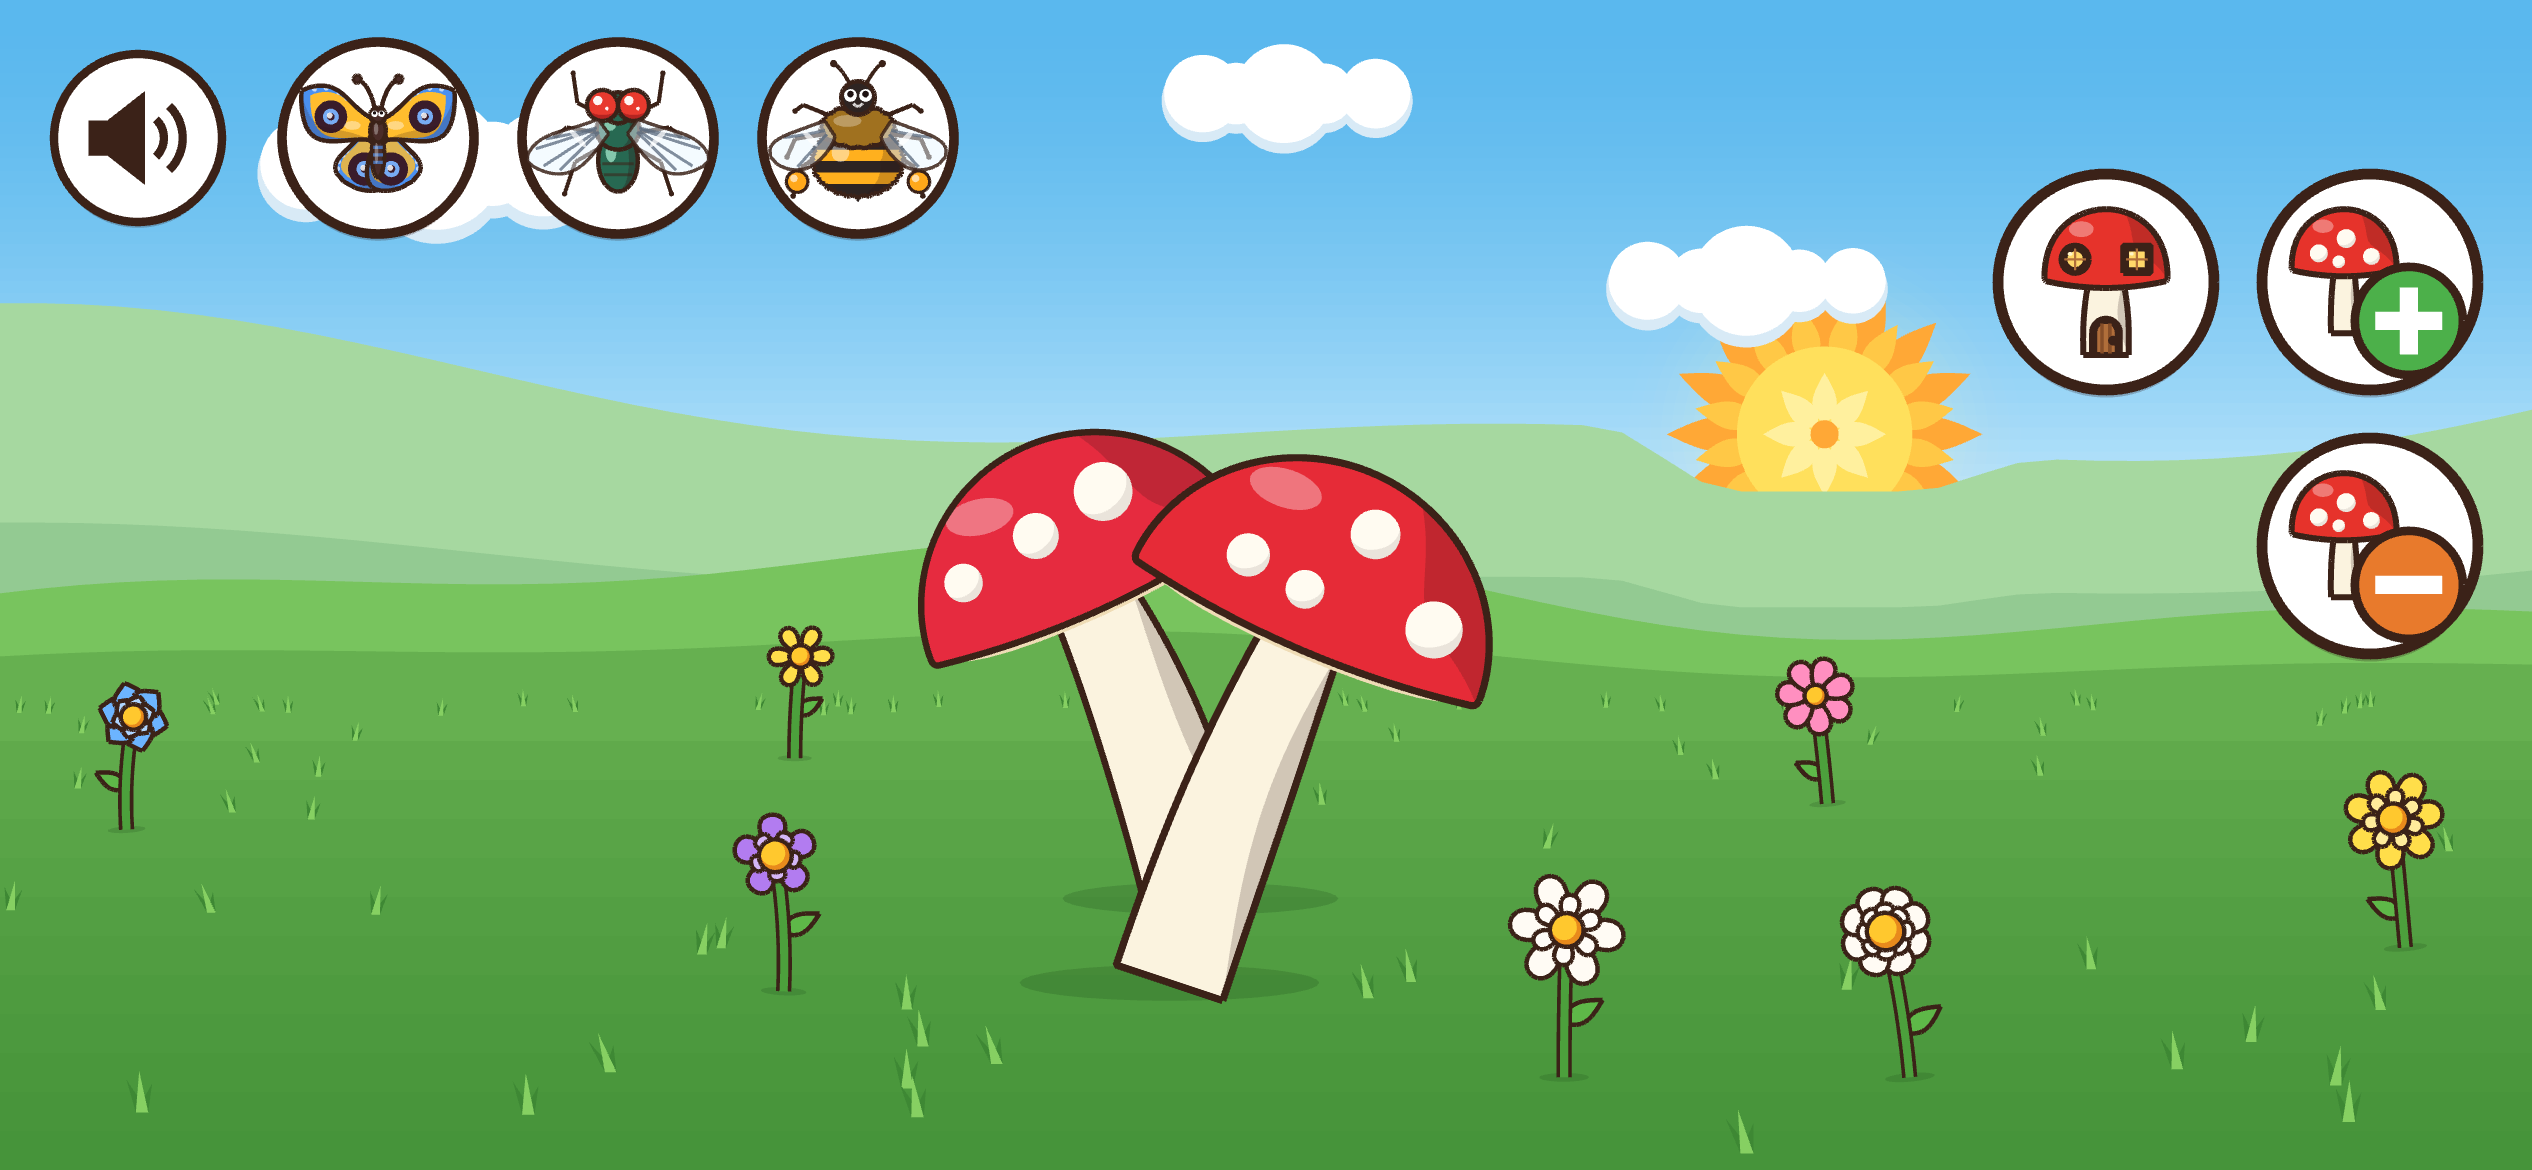
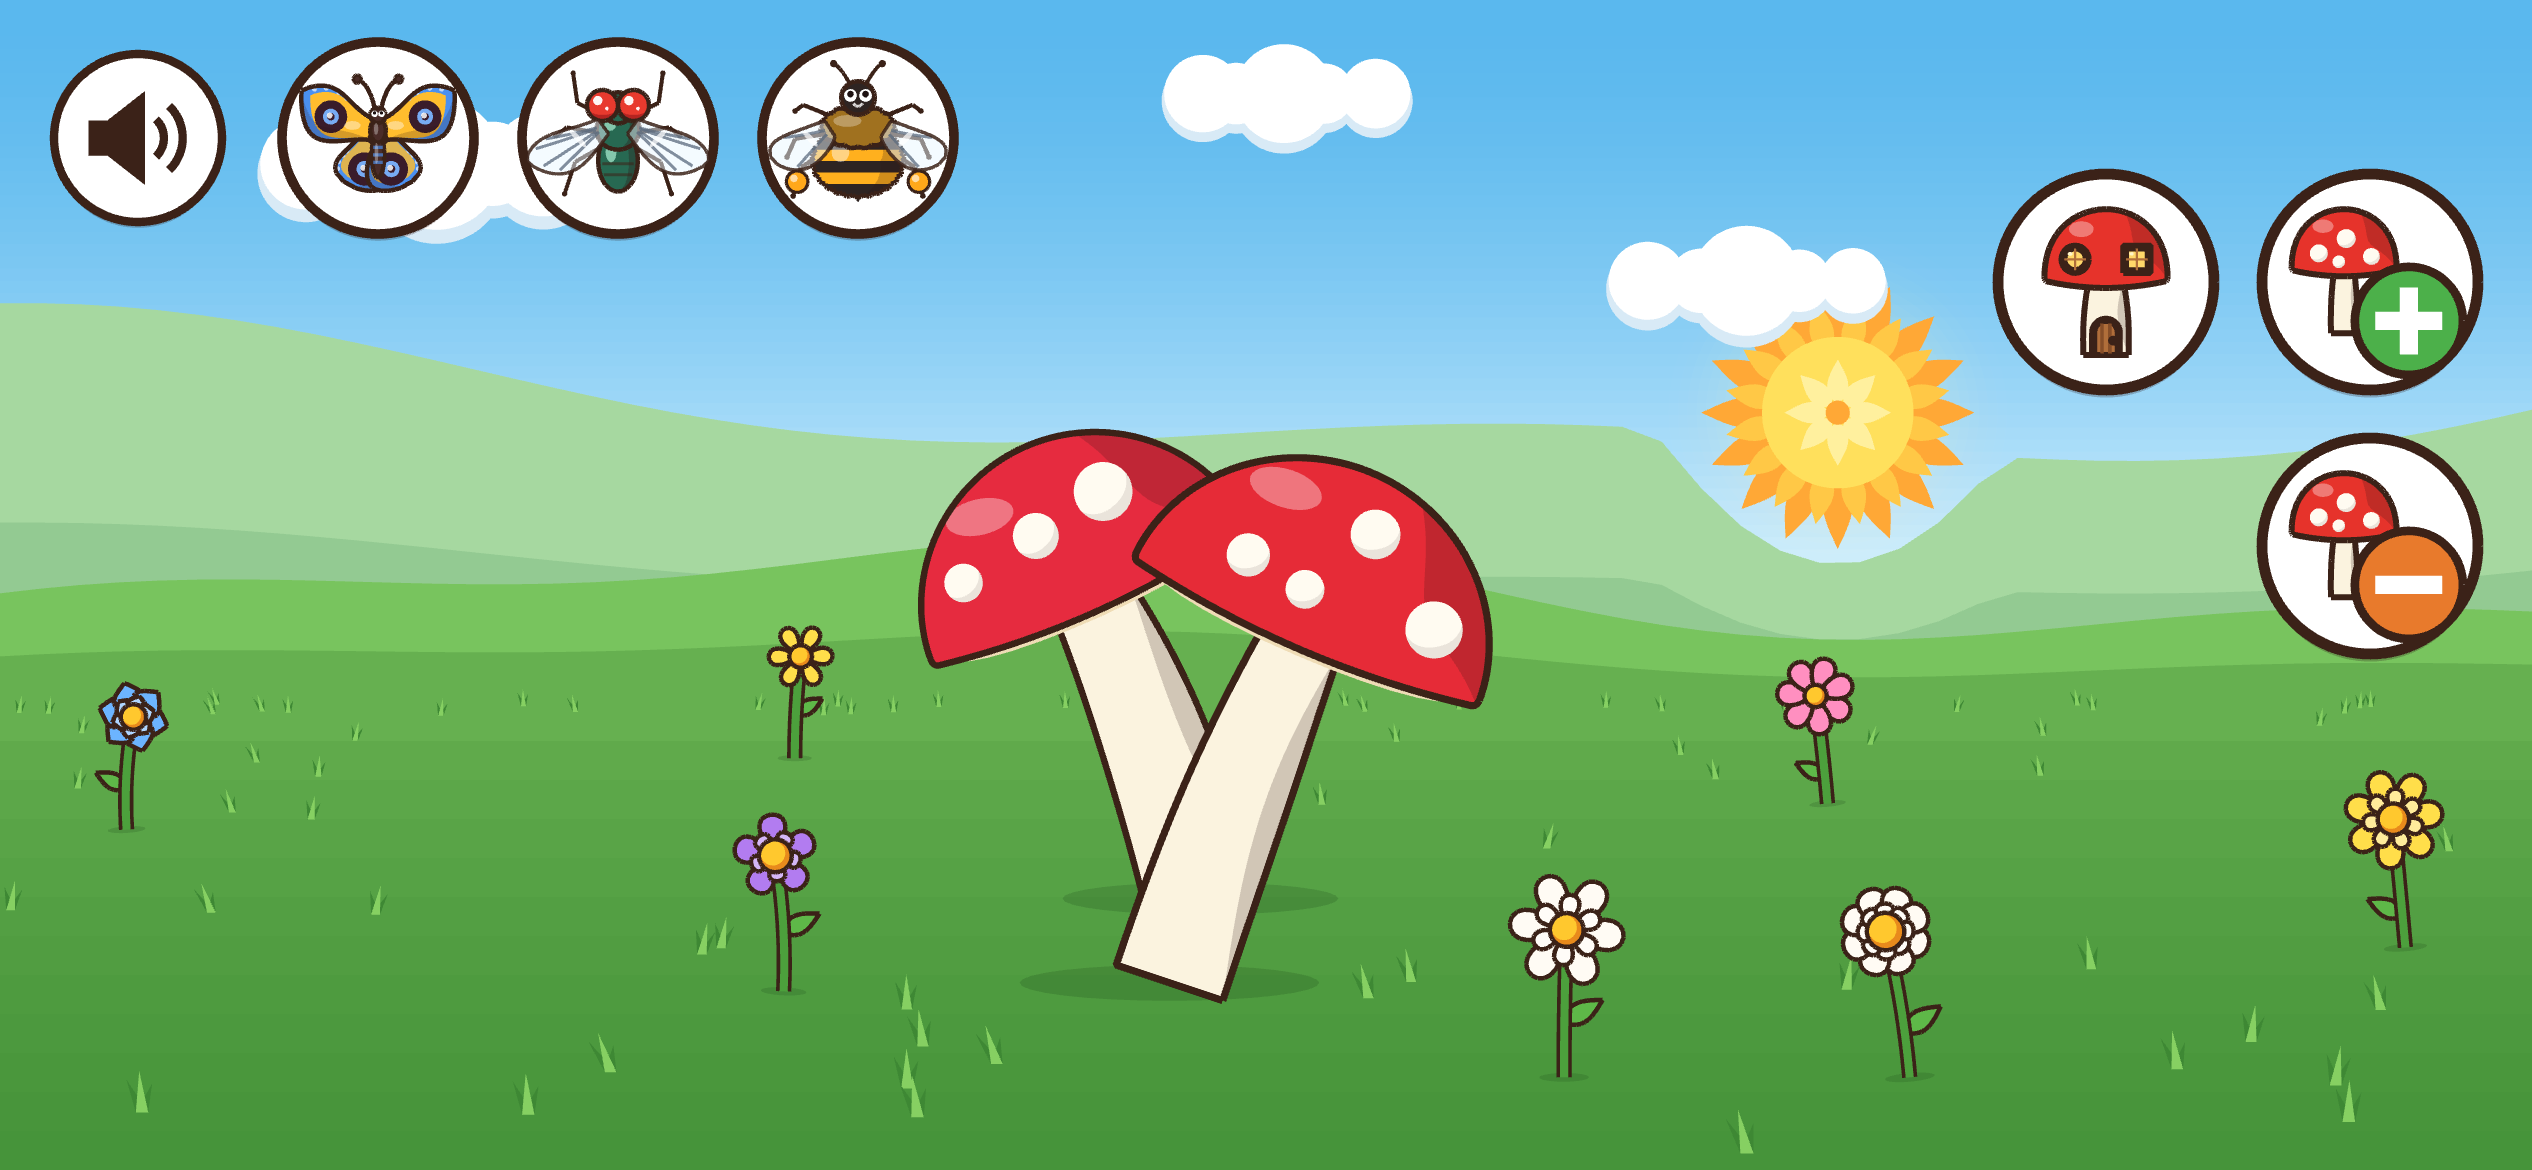
fix: the sun stands whole in the sky, the far hills parting round it in a bowl
The far skyline was let down under the sun to a level floor at the
horizon, and the sun was only kept half a radius above that horizon, so
the flat hill floor cut the bottom of the disc with a straight line in
open sky (T57's frames on phoneS and phoneL).

The sun now shrinks until its whole disc is above the horizon, and the
far hills part under it along a parabola two radii below its middle,
soft-maxed into the hill line, which stays under every ray and has no
level run. The near hills' skyline moves into skyline.ts beside the far
one, so the sun's sweep, now its own sun-layout.test.ts, checks the
disc above the horizon and both ranges, the rays clear of the far hills,
and the parting free of any level run on every VIEWPORTS screen. The
two sun frames are recaptured after the fix.

T57

Claude-Session: https://claude.ai/code/session_01RyW9H1H8Fot3GHhhfy3mRu

Changed region(s): [[0.624, 0.2462, 0.78, 0.4923]]

diff --git a/src/pages/mushrooms/ui/scene/sun-layout.test.ts b/src/pages/mushrooms/ui/scene/sun-layout.test.ts
@@ -1,0 +1,94 @@
+import assert from 'node:assert/strict';
+import { describe, it } from 'node:test';
+
+import type { Circle, Point } from '../../model/geometry';
+import { mulberry32 } from '../../model/random';
+import { meadowLayout } from './layout';
+import { standingControls, tapReach } from './sky-layout';
+import { farSkyline, nearSkyline } from './skyline';
+import { SUN_GLOW_REACH, SUN_RAY_REACH } from './sun-layout';
+import { VIEWPORTS, VISITS } from './viewports';
+
+/** How many points across a disc its showing share is measured at. */
+const SUN_GRID = 40;
+
+/** The share of `disc` above `skyline`, a line of points left to right. */
+function shownAbove(disc: Circle, skyline: readonly Point[]): number {
+  const lineAt = (x: number) => {
+    const next = skyline.findIndex((point) => point.x >= x);
+    const right = skyline[Math.max(next, 1)] ?? { x, y: Infinity };
+    const left = skyline[Math.max(next, 1) - 1] ?? right;
+    const t = right.x === left.x ? 0 : (x - left.x) / (right.x - left.x);
+    return left.y + (right.y - left.y) * t;
+  };
+  let inside = 0;
+  let shown = 0;
+  for (let row = 0; row <= SUN_GRID; row++) {
+    for (let column = 0; column <= SUN_GRID; column++) {
+      const x = disc.x + disc.r * ((2 * column) / SUN_GRID - 1);
+      const y = disc.y + disc.r * ((2 * row) / SUN_GRID - 1);
+      if (Math.hypot(x - disc.x, y - disc.y) > disc.r) continue;
+      inside++;
+      if (y < lineAt(x)) shown++;
+    }
+  }
+  return shown / inside;
+}
+
+const apart = (a: Circle, b: Circle) =>
+  Math.hypot(a.x - b.x, a.y - b.y) >= a.r + b.r;
+
+describe('the sun', () => {
+  for (const [name, width, height] of VIEWPORTS) {
+    it(`stands whole in the sky, clear of both hill ranges and every control, on a ${name} screen`, () => {
+      for (const seed of VISITS.slice(0, 200)) {
+        const layout = meadowLayout(width, height, seed);
+        const { sun, horizon, picker, housePicker } = layout;
+        const rays = { ...sun, r: sun.r * SUN_RAY_REACH };
+        assert.ok(
+          sun.y + sun.r <= horizon + 1e-9,
+          `visit ${String(seed)}: the disc below the horizon`,
+        );
+        const far = farSkyline(mulberry32(seed), layout);
+        assert.equal(
+          shownAbove(rays, far),
+          1,
+          `visit ${String(seed)}: a far hill on the rays`,
+        );
+        const near = nearSkyline(mulberry32(seed), layout);
+        assert.equal(
+          shownAbove(sun, near),
+          1,
+          `visit ${String(seed)}: a near hill on the disc`,
+        );
+        const glow = sun.r * SUN_GLOW_REACH;
+        assert.ok(sun.x + glow <= width + 1e-9 && sun.y - glow >= -1e-9);
+        for (const control of [
+          ...standingControls(layout),
+          ...picker,
+          ...housePicker,
+        ]) {
+          assert.ok(
+            apart({ ...control, r: tapReach(control.r) }, rays),
+            `visit ${String(seed)}: a control on the sun`,
+          );
+        }
+      }
+    });
+
+    it(`parts the far hills under the sun with no level run, above where the sky ends, on a ${name} screen`, () => {
+      for (const seed of VISITS.slice(0, 200)) {
+        const layout = meadowLayout(width, height, seed);
+        const line = farSkyline(mulberry32(seed), layout);
+        for (const [index, point] of line.slice(1).entries()) {
+          const before = line[index] ?? point;
+          assert.ok(
+            Math.abs(point.y - before.y) > 1e-6,
+            `visit ${String(seed)}: level at x ${point.x.toFixed(0)}`,
+          );
+          assert.ok(point.y < layout.nearHills, `visit ${String(seed)}: sky`);
+        }
+      }
+    });
+  }
+});

diff --git a/src/pages/mushrooms/ui/scene/layout.test.ts b/src/pages/mushrooms/ui/scene/layout.test.ts
@@ -35,7 +35,6 @@ import {
   meadowLayout,
 } from './layout';
 import { standingControls, TAP_RADIUS, tapReach } from './sky-layout';
-import { farSkyline } from './skyline';
 import { SUN_GLOW_REACH, SUN_RAY_REACH } from './sun-layout';
 import { VIEWPORTS, VISITS } from './viewports';
 
@@ -46,34 +45,6 @@ const apart = (a: Circle, b: Circle) =>
   Math.hypot(a.x - b.x, a.y - b.y) >= a.r + b.r;
 const onScreen = ({ x, y, r }: Circle, width: number, height: number) =>
   x - r >= 0 && x + r <= width && y - r >= 0 && y + r <= height;
-
-/** How much of the sun's disc shows in the sky at the least, above the horizon and the hills. */
-const SUN_SHOWN = 0.8;
-/** How many points across the sun's disc its showing share is measured at. */
-const SUN_GRID = 40;
-
-/** The share of `disc` above `skyline`, a line of points left to right. */
-function shownAbove(disc: Circle, skyline: readonly Point[]): number {
-  const lineAt = (x: number) => {
-    const next = skyline.findIndex((point) => point.x >= x);
-    const right = skyline[Math.max(next, 1)] ?? { x, y: Infinity };
-    const left = skyline[Math.max(next, 1) - 1] ?? right;
-    const t = right.x === left.x ? 0 : (x - left.x) / (right.x - left.x);
-    return left.y + (right.y - left.y) * t;
-  };
-  let inside = 0;
-  let shown = 0;
-  for (let row = 0; row <= SUN_GRID; row++) {
-    for (let column = 0; column <= SUN_GRID; column++) {
-      const x = disc.x + disc.r * ((2 * column) / SUN_GRID - 1);
-      const y = disc.y + disc.r * ((2 * row) / SUN_GRID - 1);
-      if (Math.hypot(x - disc.x, y - disc.y) > disc.r) continue;
-      inside++;
-      if (y < lineAt(x)) shown++;
-    }
-  }
-  return shown / inside;
-}
 
 /** How many points along a stem's drawn centreline a tap is tried at. */
 const STEM_TRIES = 20;
@@ -407,38 +378,6 @@ describe('meadowLayout', () => {
       const { sun } = screenLayout(width, height);
       const glow = sun.r * SUN_GLOW_REACH;
       assert.ok(sun.x + glow <= width + 1e-9 && sun.y - glow >= -1e-9);
-    });
-
-    it(`keeps the sun in the sky, over the horizon and the hills, on a ${name} screen`, () => {
-      for (const seed of VISITS.slice(0, 200)) {
-        const layout = meadowLayout(width, height, seed);
-        const { sun, horizon, picker, housePicker } = layout;
-        const flat = [
-          { x: 0, y: horizon },
-          { x: width, y: horizon },
-        ];
-        const low = shownAbove(sun, flat);
-        assert.ok(low >= SUN_SHOWN, `visit ${seed}: ${low.toFixed(2)} shown`);
-        const hills = farSkyline(mulberry32(seed), layout);
-        const shown = shownAbove(sun, hills);
-        assert.ok(
-          shown >= SUN_SHOWN,
-          `visit ${seed}: ${shown.toFixed(2)} shown`,
-        );
-        const glow = sun.r * SUN_GLOW_REACH;
-        assert.ok(sun.x + glow <= width + 1e-9 && sun.y - glow >= -1e-9);
-        const rays = { ...sun, r: sun.r * SUN_RAY_REACH };
-        for (const control of reach([
-          ...standingControls(layout),
-          ...picker,
-          ...housePicker,
-        ])) {
-          assert.ok(
-            apart(control, rays),
-            `visit ${seed}: a control on the sun`,
-          );
-        }
-      }
     });
 
     it(`keeps every flower off every slot's foot on a ${name} screen`, () => {

diff --git a/src/pages/mushrooms/ui/scene/skyline.ts b/src/pages/mushrooms/ui/scene/skyline.ts
@@ -4,10 +4,9 @@
  */
 
 import { type Point, sample } from '../../model/geometry';
-import { smooth } from '../../model/motion';
 import { between, type Random } from '../../model/random';
 import type { MeadowLayout } from './layout';
-import { SUN_GLOW_REACH } from './sun-layout';
+import { SUN_RAY_REACH } from './sun-layout';
 
 const HILL_STEPS = 64;
 /** How far the far hills rise above the horizon at most, as a share of the way down to the ground's top. */
@@ -32,9 +31,23 @@ export function hillLine(
 }
 
 /**
+ * How deep under the sun's middle, in its radii, the far hills part; and how
+ * soft, in radii, the crease is where a hill slope meets the parting.
+ */
+const PARTED_DEPTH = 2;
+const PARTED_SOFTNESS = 0.4;
+
+/** The larger of `a` and `b` — the lower on screen — with the crease between them rounded over `k`. */
+function softLower(a: number, b: number, k: number): number {
+  const h = Math.min(1, Math.max(0, 0.5 + (0.5 * (b - a)) / k));
+  return a + (b - a) * h + k * h * (1 - h);
+}
+
+/**
  * The far hills' skyline: a rolling line rising from the horizon, parted
- * under the sun — let down to the disc's foot, never below the horizon, and
- * easing back over the glow either side — so no hill stands in front of it.
+ * under the sun by a bowl `PARTED_DEPTH` radii deep at its middle, wide
+ * enough that its sides stay under every ray, so no hill stands in front of
+ * the sun and the parting has no level floor.
  */
 export function farSkyline(
   random: Random,
@@ -46,10 +59,27 @@ export function farSkyline(
     horizon,
     (groundTop - horizon) * FAR_RISE,
   );
-  const foot = Math.min(horizon, sun.y + sun.r);
-  const glow = sun.r * SUN_GLOW_REACH;
-  return line.map(({ x, y }) => {
-    const parted = 1 - smooth((Math.abs(x - sun.x) - sun.r) / (glow - sun.r));
-    return { x, y: y + Math.max(0, foot - y) * parted };
-  });
+  const depth = sun.r * PARTED_DEPTH;
+  const rays = sun.r * SUN_RAY_REACH;
+  // A parabola through `depth` below the middle and `depth / 2` below it at
+  // the rays' reach either side, which keeps it under the rays' circle.
+  const bowl = (x: number) =>
+    sun.y + depth - (depth * (x - sun.x) ** 2) / (2 * rays ** 2);
+  return line.map(({ x, y }) => ({
+    x,
+    y: softLower(y, bowl(x), sun.r * PARTED_SOFTNESS),
+  }));
+}
+
+/** The near hills' skyline, rolling across the band below the far hills'. */
+export function nearSkyline(
+  random: Random,
+  { width, nearHills, groundTop }: MeadowLayout,
+): Point[] {
+  return hillLine(
+    random,
+    width,
+    nearHills + (groundTop - nearHills) * 0.6,
+    (groundTop - nearHills) * 1.1,
+  );
 }

diff --git a/src/pages/mushrooms/ui/scene/sun-layout.ts b/src/pages/mushrooms/ui/scene/sun-layout.ts
@@ -11,11 +11,9 @@ export const SUN_GLOW_REACH = 2.6;
 /** The sun's longest rays reach this many radii out. */
 export const SUN_RAY_REACH = 1.8;
 /**
- * How far above the horizon the sun's middle stays, in radii, keeping four
- * fifths of its disc in the sky; and the least share of its size it shrinks
- * to for that on a crowded screen.
+ * The least share of its size the sun shrinks to, on a crowded screen, to
+ * keep its whole disc above the horizon.
  */
-const SUN_ABOVE = 0.5;
 const SUN_LEAST = 0.5;
 
 /** Where the far hills meet the meadow, as a share down a screen `width` by `height`. */
@@ -25,7 +23,7 @@ export function horizonAt(width: number, height: number): number {
 
 /**
  * The sun, of radius `r` at the most, as `sunAt` places it: shrunk, a pixel
- * at a time, until it keeps `SUN_ABOVE` over the horizon, which also frees
+ * at a time, until its whole disc stands above the horizon, which also frees
  * the corner where only its rays kept it off; never below `SUN_LEAST`.
  */
 export function placeSun(
@@ -37,7 +35,7 @@ export function placeSun(
   const horizon = horizonAt(width, height);
   let sun = sunAt(width, height, r, controls);
   for (let size = r - 1; size >= r * SUN_LEAST; size--) {
-    if (sun.y + SUN_ABOVE * sun.r <= horizon) break;
+    if (sun.y + sun.r <= horizon) break;
     sun = sunAt(width, height, size, controls);
   }
   return sun;

diff --git a/src/pages/mushrooms/ui/scene/paint-backdrop.ts b/src/pages/mushrooms/ui/scene/paint-backdrop.ts
@@ -6,7 +6,7 @@ import { mix } from './colour';
 import type { MeadowLayout } from './layout';
 import { PALETTE } from './palette';
 import { fillShape, petal } from './shapes';
-import { farSkyline, hillLine } from './skyline';
+import { farSkyline, nearSkyline } from './skyline';
 import { SUN_GLOW_REACH, SUN_RAY_REACH } from './sun-layout';
 
 const SKY_BANDS = 48;
@@ -192,17 +192,10 @@ export function paintBackdrop(
     PALETTE.farHill,
     PALETTE.farHillShade,
   ]);
-  fillHills(
-    hills,
-    hillLine(
-      random,
-      width,
-      nearHills + (groundTop - nearHills) * 0.6,
-      (groundTop - nearHills) * 1.1,
-    ),
-    groundTop + 2,
-    [PALETTE.nearHill, PALETTE.nearHillShade],
-  );
+  fillHills(hills, nearSkyline(random, layout), groundTop + 2, [
+    PALETTE.nearHill,
+    PALETTE.nearHillShade,
+  ]);
   paintGround(layer(), layout);
   return { layers: painted, clouds };
 }
